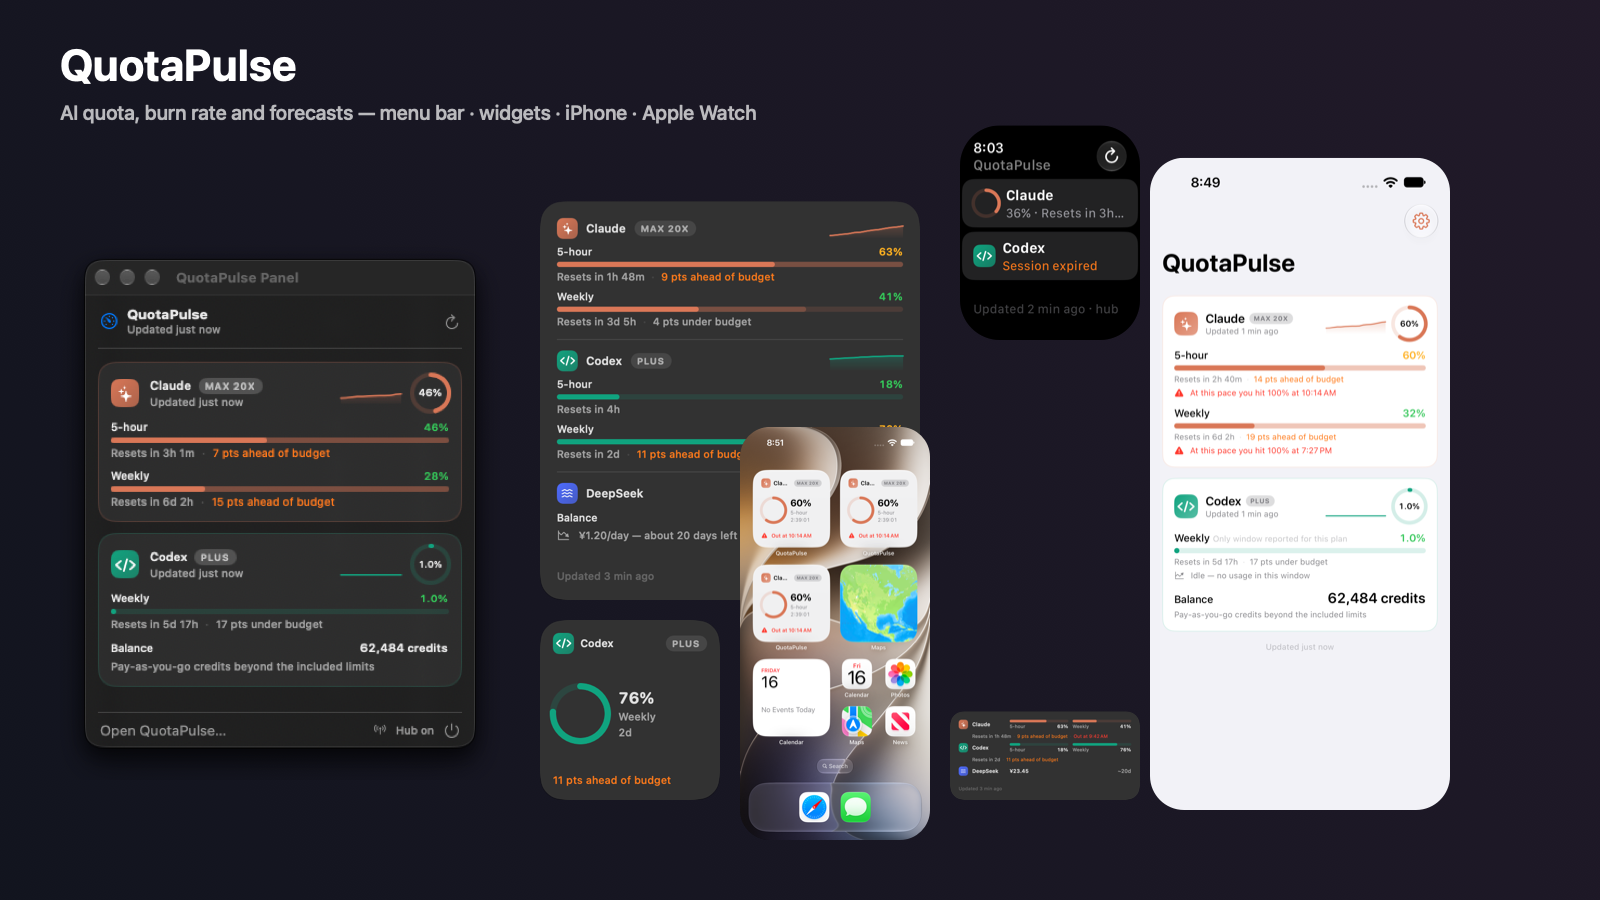
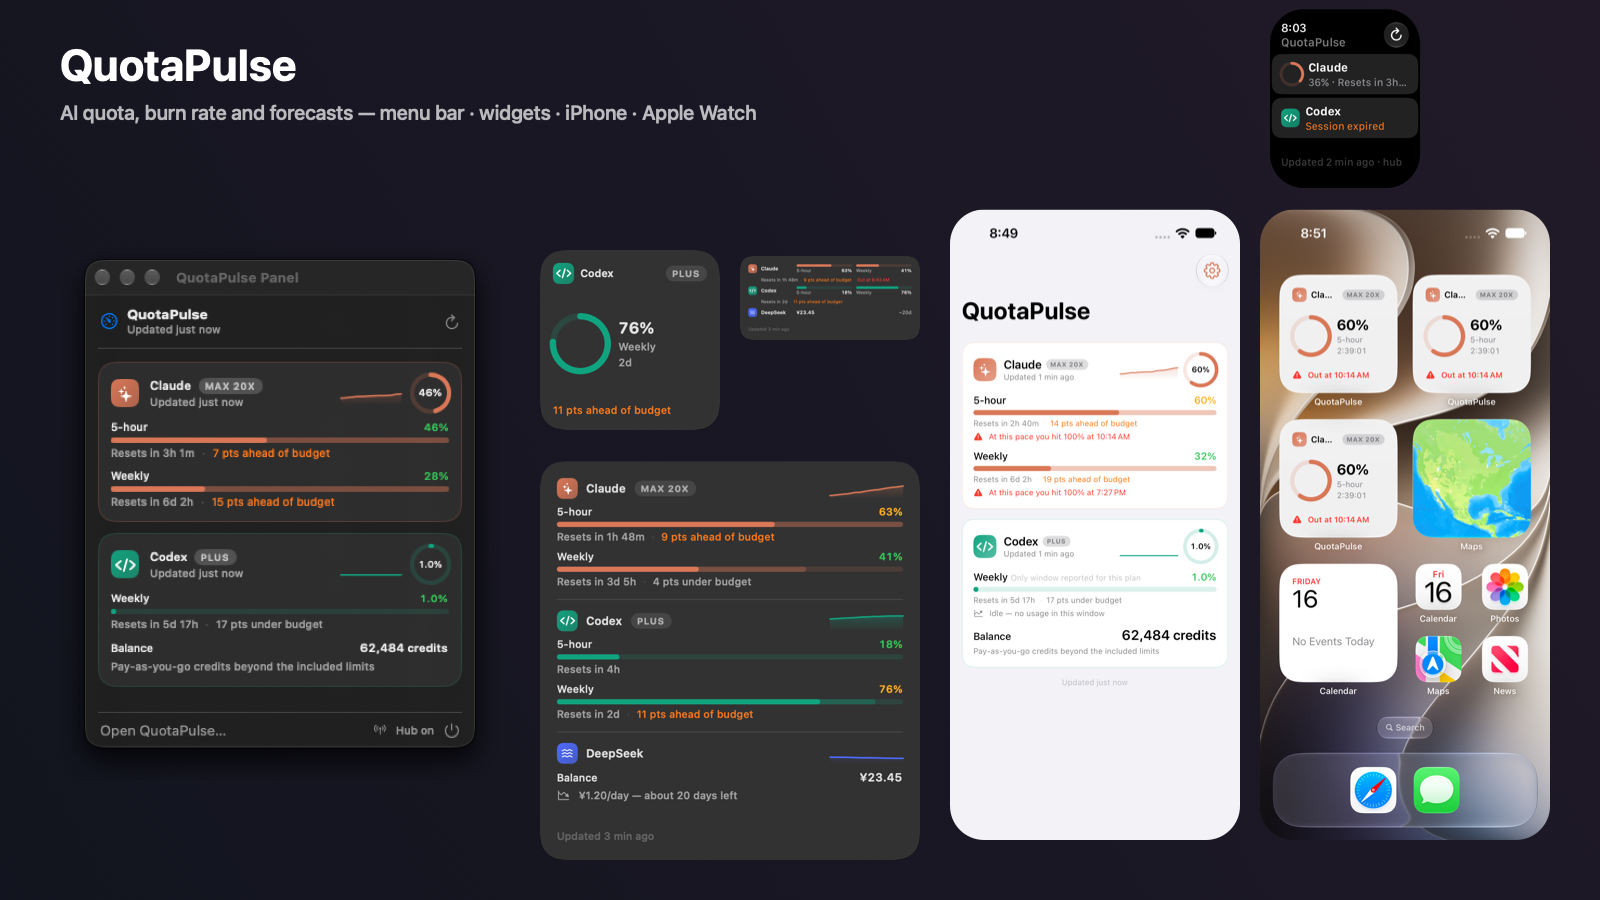
docs: hero layout

diff --git a/scripts/compose-hero.swift b/scripts/compose-hero.swift
@@ -20,12 +20,12 @@ let canvas = NSImage(size: NSSize(width: W, height: H), flipped: false) { rect i
         ctx.restoreGState()
     }
     place("mac-panel.png", x: 60, y: 120, w: 440, radius: 14)
-    place("widget-large.png", x: 540, y: 300, w: 380, radius: 22)
-    place("widget-small.png", x: 540, y: 100, w: 180, radius: 22)
-    place("ip17-widget-medium.png", x: 740, y: 60, w: 190, radius: 30)
-    place("widget-medium.png", x: 950, y: 100, w: 190, radius: 14)
-    place("ip17-home.png", x: 1150, y: 90, w: 300, radius: 34)
-    place("watch-home.png", x: 960, y: 560, w: 180, radius: 40)
+    place("widget-large.png", x: 540, y: 40, w: 380, radius: 22)
+    place("widget-small.png", x: 540, y: 470, w: 180, radius: 22)
+    place("widget-medium.png", x: 740, y: 560, w: 180, radius: 12)
+    place("ip17-home.png", x: 950, y: 60, w: 290, radius: 34)
+    place("ip17-widget-medium.png", x: 1260, y: 60, w: 290, radius: 34)
+    place("watch-home.png", x: 1270, y: 712, w: 150, radius: 34)
     let title = "QuotaPulse"
     let attrs: [NSAttributedString.Key: Any] = [.font: NSFont.systemFont(ofSize: 44, weight: .bold), .foregroundColor: NSColor.white]
     (title as NSString).draw(at: NSPoint(x: 60, y: H - 90), withAttributes: attrs)
